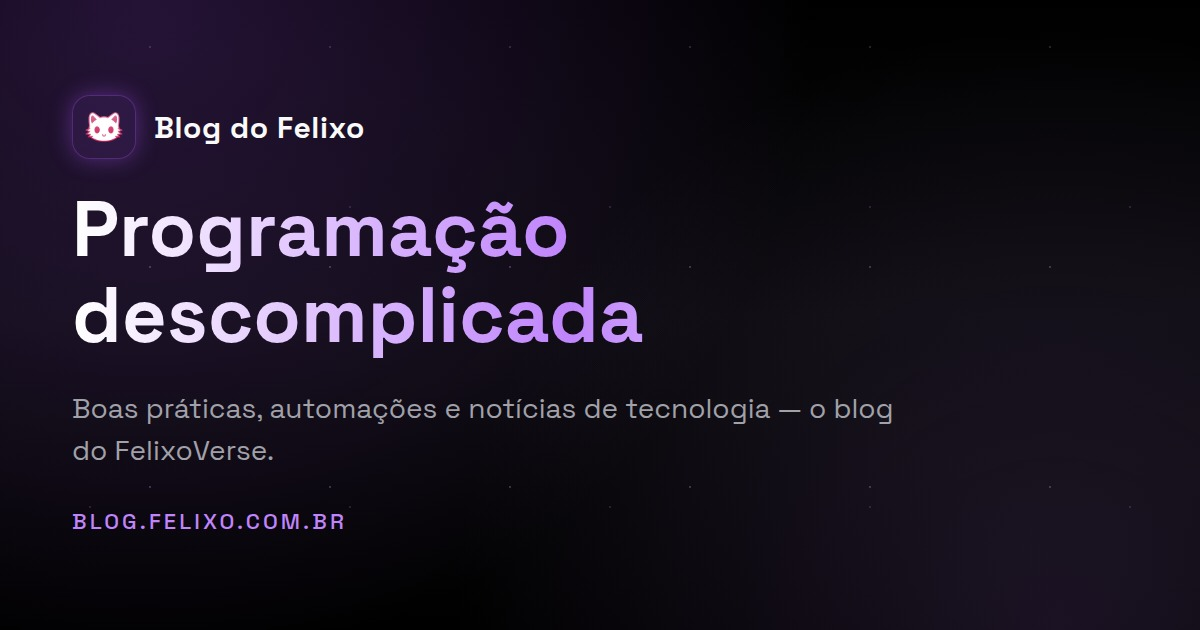
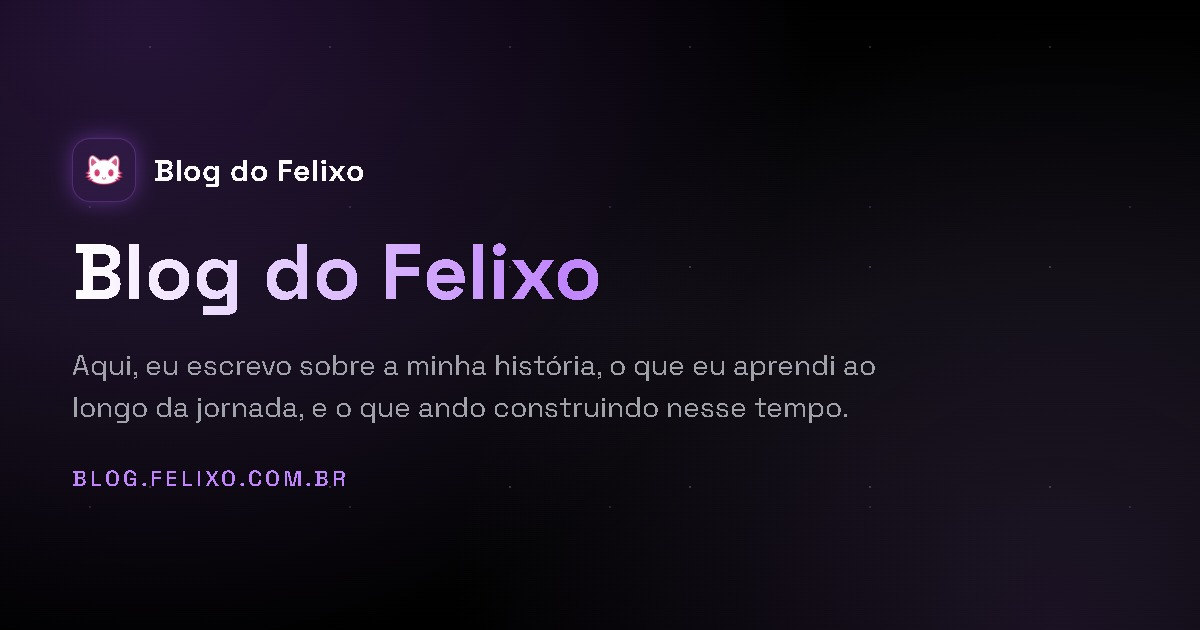
feat: descrição do site, Sobre e cartão de compartilhamento com as frases do dono
Decisão do dono, com opções feitas só de frases da apresentação da home:
- SITE.descricao (buscador, cartão e RSS): "Aqui, eu escrevo sobre a minha
  história, o que eu aprendi ao longo da jornada, e o que ando construindo
  nesse tempo."
- Cartão (public/og-image.jpg) regerado com o título "Blog do Felixo" e essa
  descrição; os padrões de scripts/gerar-og-image.py mudaram junto.
- Sobre passa a mostrar os três parágrafos da home, lidos de
  TEXTOS.pt.home.apresentacao (uma fonte só); some a lista antiga com
  "Notícias de tecnologia".
- O FelixoVerse fica fora da descrição e do cartão.

Claude-Session: https://claude.ai/code/session_01VN6y9Bb3r7B7LnTu3Qi5vk

diff --git a/src/config/site.ts b/src/config/site.ts
@@ -2,8 +2,10 @@
 export const SITE = {
   titulo: 'Blog do Felixo',
   autor: 'Felipe Alcântara',
+  // Frase do dono, tirada da apresentação da home (2026-10-26); vai para o buscador,
+  // o cartão de compartilhamento e o RSS. A versão em inglês está em `idiomas.ts`.
   descricao:
-    'Programação descomplicada, boas práticas, automações e notícias de tecnologia — o blog do FelixoVerse.',
+    'Aqui, eu escrevo sobre a minha história, o que eu aprendi ao longo da jornada, e o que ando construindo nesse tempo.',
   idioma: 'pt-BR',
   url: 'https://blog.felixo.com.br',
   /** Perfil usado no `twitter:site` do cartão — o mesmo do portfólio. */

diff --git a/scripts/gerar-og-image.py b/scripts/gerar-og-image.py
@@ -36,9 +36,12 @@ RAIZ = Path(__file__).resolve().parents[1]
 SAIDA_PADRAO = RAIZ / "public" / "og-image.jpg"
 LOGO = RAIZ / "public" / "imagens" / "logo-felixo.png"
 
-TITULO_PADRAO = "Programação descomplicada"
+# Os dois valem para o cartão genérico do site; a descrição é a mesma de
+# `SITE.descricao` em `src/config/site.ts` (mudou uma, muda a outra).
+TITULO_PADRAO = "Blog do Felixo"
 DESCRICAO_PADRAO = (
-    "Boas práticas, automações e notícias de tecnologia — o blog do FelixoVerse."
+    "Aqui, eu escrevo sobre a minha história, o que eu aprendi ao longo da jornada, "
+    "e o que ando construindo nesse tempo."
 )
 
 LARGURA, ALTURA = 1200, 630
@@ -190,7 +193,7 @@ def _analisar_argumentos(argv: list[str] | None) -> argparse.Namespace:
     parser.add_argument(
         "--titulo",
         default=TITULO_PADRAO,
-        help="Título do cartão (padrão: chamada do site).",
+        help="Título do cartão (padrão: nome do blog).",
     )
     parser.add_argument(
         "--descricao",
